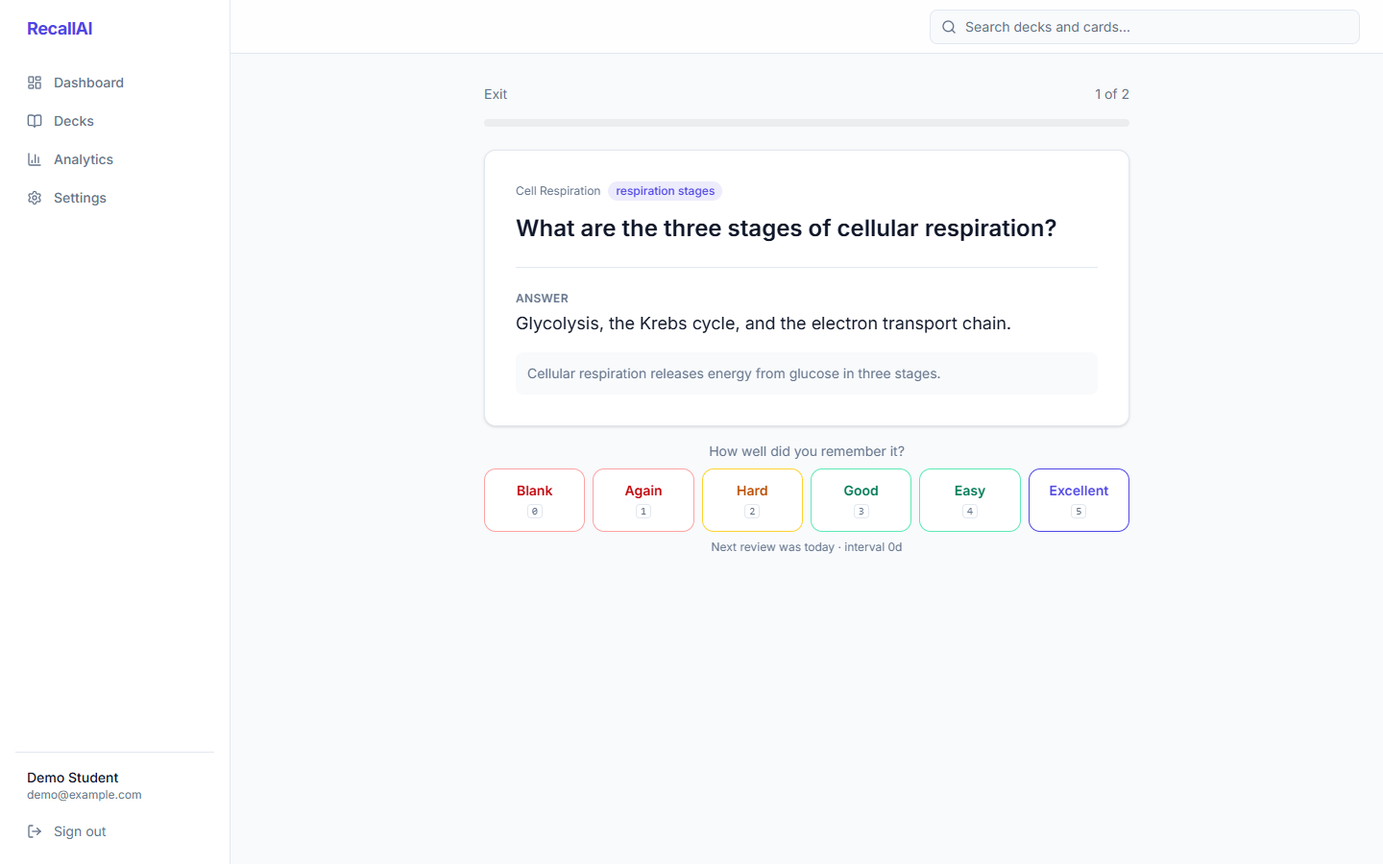
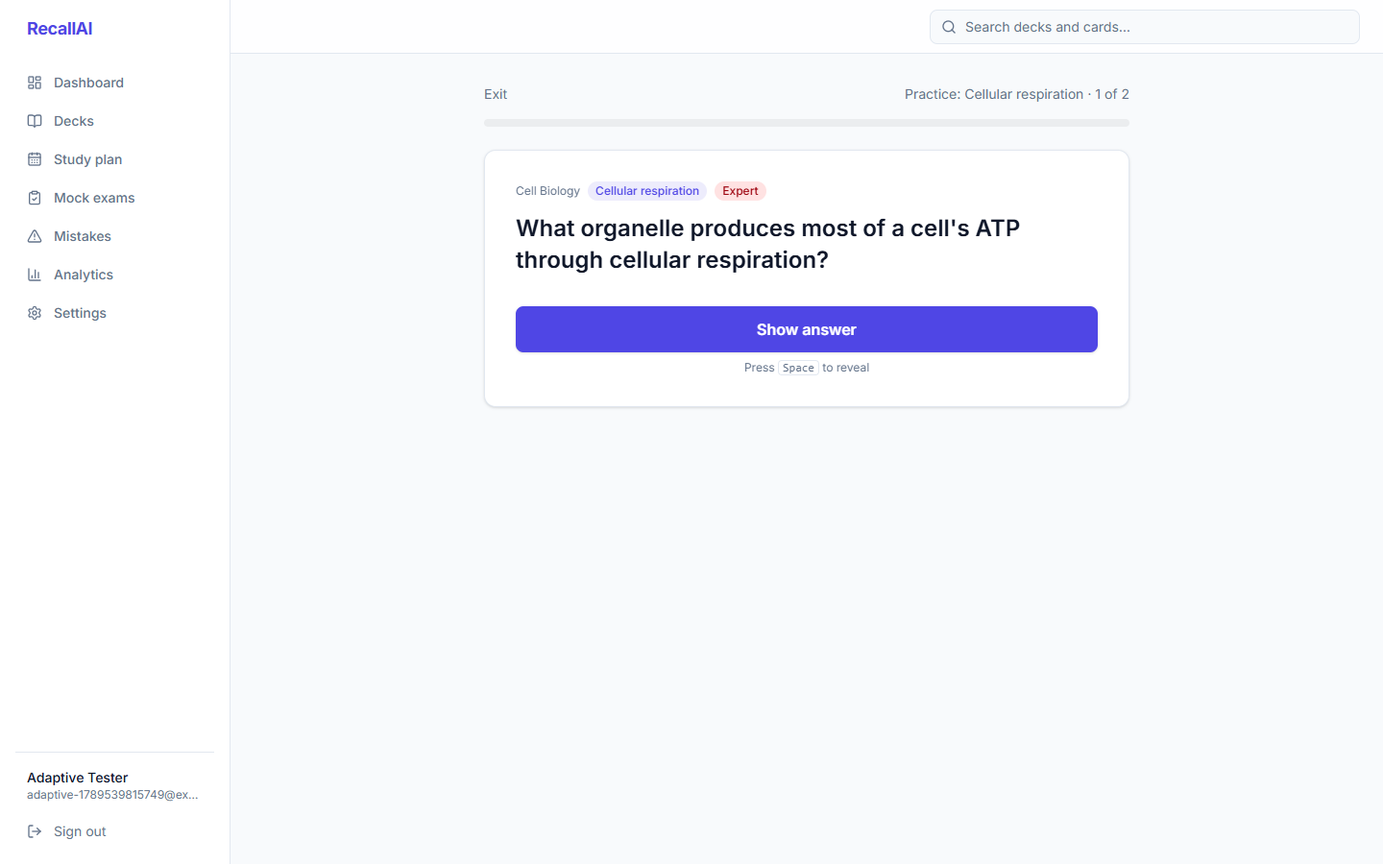
docs(phase 7): end-to-end verification, README and screenshots
- compose stack rebuilt with the upgrade; Flyway applied V4-V8 in place
- scripts/e2e-walkthrough.mjs drives the real UI on Groq through cards,
  adaptive tiers, quiz, mistake review, topic practice, study plan,
  mock exam, results, mistakes, analytics and the dashboard, and
  captures the screenshots
- README: adaptive companion section, schema, routes, endpoints, tests,
  screenshots, roadmap and history updated

diff --git a/README.md b/README.md
@@ -13,19 +13,20 @@
 9. [AI architecture](#ai-architecture) (prompt engineering, structured output, failure handling, caching, chunking, cost, hallucination)
 10. [Quizzes](#quizzes)
 11. [Weak topics and analytics](#weak-topics-and-analytics)
-12. [Frontend](#frontend)
-13. [Security](#security-and-authentication) (rate limiting, logging, production configuration, error format)
-14. [API documentation](#api)
-15. [Local setup](#local-setup-without-docker)
-16. [Docker setup](#docker-setup)
-17. [Environment variables](#environment-variables)
-18. [Testing](#testing)
-19. [Continuous integration](#continuous-integration)
-20. [AWS deployment](#aws-deployment)
-21. [Screenshots](#screenshots)
-22. [Future improvements](#future-improvements)
-23. [Interview talking points](#interview-talking-points)
-24. [Development history](#development-history)
+12. [Adaptive study companion](#adaptive-study-companion) (topic insight, adaptive difficulty, mistakes, study planner, mock exams, readiness)
+13. [Frontend](#frontend)
+14. [Security](#security-and-authentication) (rate limiting, logging, production configuration, error format)
+15. [API documentation](#api)
+16. [Local setup](#local-setup-without-docker)
+17. [Docker setup](#docker-setup)
+18. [Environment variables](#environment-variables)
+19. [Testing](#testing)
+20. [Continuous integration](#continuous-integration)
+21. [AWS deployment](#aws-deployment)
+22. [Screenshots](#screenshots)
+23. [Future improvements](#future-improvements)
+24. [Interview talking points](#interview-talking-points)
+25. [Development history](#development-history)
 
 ## Project overview
 
@@ -66,7 +67,13 @@ RecallAI removes the two frictions. A language model writes the questions from t
 - SM-2 scheduling per card; a daily queue that contains only cards that are actually due, overdue and weakest first.
 - Generate multiple-choice quizzes from a deck or from notes; take them one question at a time; get explanations for misses; retry.
 - Weak-topic detection from review history, with configurable thresholds and no model involved.
-- Dashboard with due, reviewed, streak and mastered tiles; analytics with activity, retention, mastery and topic charts.
+- **Topic insight** across flashcard reviews, quiz answers and mock exams: accuracy, attempts, mistakes, last studied, a category (critical, weak, good, strong) and a recommended action, with one-click practice (targeted flashcard session or generated quiz).
+- **Adaptive difficulty**: every card carries an easy/medium/hard/expert tier driven by lapses, confident streaks and response time; hard and expert cards come back sooner than plain SM-2 would schedule them.
+- **Mistake → flashcard → revision**: wrong quiz and exam answers become mistakes; "Review this mistake" generates an explanatory card (validated, with a deterministic fallback) that SM-2 schedules from today.
+- **AI study planner**: exam date, topics, level and available time become a dated plan of due-card reviews, learning and practice blocks weighted towards weak topics, mistake reviews, weekly mock exams and a final revision day; the model writes the summary and tips; regenerate rebalances after new results.
+- **Mock exams**: timed exams generated from your cards with multiple-choice, true/false and short-answer questions, graded locally, with per-topic results and mistakes captured.
+- **Estimated exam readiness** on the dashboard, computed from accuracy, retention, topic coverage, revision consistency and mock exam scores, with every component and weight shown.
+- Dashboard with readiness, today's plan, weak and strong topics, upcoming reviews, mistakes, difficulty progress, mock exam performance, streak and retention; analytics with activity, retention, mastery and topic charts.
 - Study streaks computed from real calendar days.
 - Full-text search across decks and cards in PostgreSQL.
 - Content-hash caching of AI responses, corrective retries on invalid output, per-user rate limiting on AI endpoints.
@@ -161,9 +168,14 @@ Flyway owns the schema (`backend/src/main/resources/db/migration`). Hibernate ru
 | `quizzes`, `quiz_questions` | AI-generated multiple-choice quizzes |
 | `quiz_attempts` | Scores and duration per attempt |
 | `quiz_attempt_answers` | Selected answer and correctness per question per attempt |
-| `ai_cache` | Validated Claude responses keyed by `(content_hash, operation_type, model, prompt_version)` |
+| `mistakes` | Questions answered wrongly in quizzes or mock exams: given and correct answer, explanation, topic, occurrences, status (open, converted, dismissed) and the card they became |
+| `study_plans`, `study_plan_tasks` | Exam plans (name, date, topics, level, minutes per day, preferred weekdays, model-written summary and advice) and their dated tasks with status |
+| `mock_exams`, `mock_exam_questions` | Timed exams and their mixed-type questions; each question row also holds the answer given and whether it was correct (one attempt per exam) |
+| `ai_cache` | Validated model responses keyed by `(content_hash, operation_type, model, prompt_version)` |
 
-Check constraints enforce SM-2 invariants at the database level (ease factor ≥ 1.30, non-negative interval and repetitions, quality score 0–5, correct answer index 0–3).
+Migrations V4–V8 (the adaptive upgrade) add `quiz_questions.topic`; the card difficulty tier and counters (`difficulty`, `success_streak`, `lapse_count`, `total_reviews`, `avg_response_ms`, backfilled from history) plus `review_history.response_ms` and `difficulty_after`; card `origin` (manual, ai, mistake) and `mistake_id`; and the three table pairs above. Existing databases upgrade in place.
+
+Check constraints enforce SM-2 invariants at the database level (ease factor ≥ 1.30, non-negative interval and repetitions, quality score 0–5, correct answer index 0–3), plus the enumerations and ranges of the new tables.
 
 ## SM-2 spaced repetition
 
@@ -312,22 +324,43 @@ Everything under `/api/analytics` is computed by SQL aggregates over `review_his
 
 **Charts**: `GET /api/analytics/activity?days=30` returns one point per calendar day (gaps filled with zeros) with reviews, successful reviews, average quality and retention percent; `GET /api/analytics/mastery?days=90` returns the cumulative number of cards that had reached the mastered interval by each day, based on the first review that took each card there.
 
+## Adaptive study companion
+
+Five features build on the pieces above. A rule of the design: **numbers, categories and schedules are computed from the student's own results; the model only writes text (cards, questions, summaries) and everything it writes is validated before it is stored.** Every model-backed step also has a path that works when the model is unavailable.
+
+**Topic insight** (`GET /api/analytics/topic-insights`). Flashcard reviews (rated 3 or higher count as successes), quiz answers and mock exam answers are aggregated per topic in SQL (`review_history` joined to `cards`, `quiz_attempt_answers` joined to `quiz_questions`, which now carry a `topic` the quiz prompt asks for). Cards or questions without a topic count under their deck's name. `TopicCategorizer` labels each topic from its combined accuracy: fewer than three attempts is *unrated*; 85%+ is *strong*, 70%+ *good*, 50%+ *weak*, below that *critical*; each category carries a recommended action. `GET /api/reviews/practice?topic=` returns every card on a topic (hardest tier first) for a practice session graded through the normal SM-2 endpoint, and `POST /api/ai/quiz/topic` builds a five-question quiz from the student's own cards on that topic.
+
+**Adaptive difficulty** (`AdaptiveDifficultyService`, pure). Each card has a tier: a lapse (quality below 3) moves it one tier harder, a blank (quality 0) two; three consecutive successes rated 4 or 5 that were not unusually slow move it one tier easier. Response time is the time from seeing the question to revealing the answer, sent by the study page as `responseMs`; a review slower than twice the card's running average does not count towards promotion. The tier then scales the interval SM-2 produced, but only from the third repetition on, so SM-2's 1-day and 6-day seeds and its lapse handling are untouched: easy and medium cards follow plain SM-2 (whose ease factor already lengthens intervals), hard cards get 85% of the interval and expert cards 70%. The review response reports the tier, whether it changed and the unscaled SM-2 interval; `GET /api/analytics/difficulty` gives the distribution.
+
+**Mistake → flashcard → revision** (`/api/mistakes`). Submitting a quiz or exam records every wrong or skipped answer as a mistake (question, the answer given, the correct answer, explanation, topic); missing the same question again bumps its occurrence count. `POST /api/mistakes/{id}/flashcard` asks the model for one corrective card (operation `MISTAKE_CARD`: a recall question about the underlying concept, the precise answer, an explanation that addresses the misconception), validates it like any flashcard, and saves it with origin `MISTAKE`, tagged `mistake`, due today, so it enters the SM-2 queue immediately. If the model is unavailable or returns something invalid after the corrective retry, the card is built deterministically from the stored question, correct answer and explanation, so the flow never fails. Mistakes can be dismissed (they reopen when missed again) or deleted.
+
+**AI study planner** (`/api/study-plans`). A plan takes the exam name and date, topics, a self-assessed level, minutes per study day and preferred weekdays. `StudyPlanAllocator` (pure, deterministic) turns that into dated tasks: every study day starts with a due-card review block and, every other day while mistakes are open, a mistake-review block; the rest goes to one or two topics chosen by a weighted fair share (critical 4, weak 3, unknown 3/2/1.5 by level, good 1.5, strong 1) where a topic's first block is learning and later blocks alternate practice quizzes and learning (topics already good or strong start with practice); the last study day of each week ends with a mock exam and the final day is a revision of the weakest topics. The model (operation `STUDY_PLAN`) is then shown only aggregate numbers and writes a summary and one tip per topic, validated (topics outside the plan are dropped); without a model the plan gets a computed summary. Tasks are checked off, a plan completes when nothing is pending, and **regenerate** rebuilds the pending future tasks from fresh topic insight while keeping completed work, so the plan adapts as results change.
+
+**Mock exams** (`/api/mock-exams`). An exam is generated from the student's cards (one topic, one deck, or the most recent cards) at a chosen difficulty with a mix of multiple-choice, true/false and short-answer questions (operation `MOCK_EXAM`; the validator checks each type's shape). The clock starts on creation; `GET /api/mock-exams/{id}` returns questions without answers and the remaining seconds. Submission is graded locally: option index for choice questions, and `ShortAnswerGrader` for short answers (normalised exact match against the model answer or its accepted alternatives, containment of all key words without being much longer, numeric equality). Late submissions are graded but flagged. Results give score, accuracy, time, per-topic breakdown with strong (70%+) and weak topics, every question with its explanation, and links to the mistakes that were recorded. History and stats feed the dashboard and the readiness estimate.
+
+**Estimated exam readiness** (`GET /api/analytics/readiness`). `ReadinessCalculator` combines five components, each 0–100: accuracy over all reviews and answers (weight 30), 30-day retention (25), topic coverage, the share of topics rated good or strong with unrated topics counting half (20), revision consistency, days studied in the last week minus an overdue-backlog penalty (15), and the average mock exam score (10). A component without evidence drops out and its weight is shared among the rest, so nobody is penalised for a feature they have not used. The response carries every component's score, weight and explanation, a confidence level from the amount of evidence, a recommendation naming the weakest component, and `estimate: true`; the dashboard labels it as an estimate and says it is not a prediction of a grade.
+
+**Rate limiting.** Handlers that may call the model outside `/api/ai` (mistake flashcards, plan creation and regeneration, exam creation) are marked `@AiRateLimited` and count against the same per-user hourly limit.
+
 ## Frontend
 
-A Next.js 16 App Router application in `frontend/`, written as a client-rendered SPA over the REST API (the backend is the only place that talks to Claude or the database).
+A Next.js 16 App Router application in `frontend/`, written as a client-rendered SPA over the REST API (the backend is the only place that talks to the model or the database).
 
 | Route | What it does |
 |---|---|
 | `/login`, `/register` | Auth forms with field-level errors from the API; on success the JWT is stored in a same-site cookie |
-| `/dashboard` | Time-of-day greeting, Due / Reviewed / Streak / Mastered tiles, "Start review" CTA, today's queue, weak topics, 14-day activity chart, recent activity |
+| `/dashboard` | Greeting and "Start review"; Due / Retention / Streak / Mastered tiles; estimated exam readiness with every component; today's plan with check-offs; weak topics with Practice, strong topics, upcoming reviews; today's queue; mistakes to review; adaptive difficulty progress; mock exam performance; 14-day activity chart; recent activity |
 | `/decks` | Searchable, tag-filtered, paginated deck grid with progress bars; create deck modal |
 | `/decks/[id]` | Deck header with counts and progress; Study, Generate cards (paste or drag-and-drop TXT/PDF), Generate quiz, Edit, Delete; tabs for cards (search, add, edit, delete) and quizzes |
-| `/study/[deckId]` (`all` for every deck) | One card at a time: question, reveal, answer and explanation, six SM-2 rating buttons, progress bar, cards remaining, session summary |
-| `/quiz/[quizId]` | One question at a time with four options, then a scored results screen with correct/incorrect markers and explanations for misses, retry |
-| `/analytics` | Recall, retention, mastered and streak tiles; review activity, retention, mastery-over-time and topic-performance charts (Recharts); full topic table with weak flags |
+| `/study/[deckId]` (`all` for every deck; `?topic=` for a practice session) | One card at a time: question, reveal, answer and explanation, six SM-2 rating buttons, difficulty tier, progress bar, cards remaining, session summary; time-to-reveal is sent with each rating and tier changes are announced |
+| `/quiz/[quizId]` | One question at a time with four options, then a scored results screen with correct/incorrect markers, explanations and "Review this mistake" for misses, retry |
+| `/plan`, `/plan/new` | Create a plan (exam, date, topics with suggestions from your results, level, minutes, weekdays); Today, This week, Progress and Completed tabs; check off, skip, regenerate, complete |
+| `/exams`, `/exams/[id]`, `/exams/[id]/results` | New exam form (topic, deck or all cards; difficulty; count; minutes; types) and history; timed exam with countdown, navigator, keyboard shortcuts, auto-submit at zero; results with accuracy, time, strong and weak topics, explanations and mistake review |
+| `/mistakes` | Open, converted and dismissed mistakes with the answer given versus the correct one, occurrences and source; Review this mistake, dismiss, reopen |
+| `/analytics` | Recall, retention, mastered and streak tiles; review activity, retention, mastery-over-time and topic-performance charts (Recharts); every topic with category, accuracy, attempts, mistakes, last studied and action; difficulty tier distribution |
 | `/settings` | Account details, keyboard shortcut reference, how scheduling works, sign out |
 
-**Keyboard shortcuts** in the study session: `Space` or `Enter` reveals the answer, `0`–`5` rate the card (`1` Again, `2` Hard, `3` Good, `4` Easy, `5` Excellent, `0` Blank). In quizzes `1`–`4` pick an option and `Enter` continues.
+**Keyboard shortcuts** in the study session: `Space` or `Enter` reveals the answer, `0`–`5` rate the card (`1` Again, `2` Hard, `3` Good, `4` Easy, `5` Excellent, `0` Blank). In quizzes `1`–`4` pick an option and `Enter` continues. In mock exams `1`–`4` pick an option and the arrow keys move between questions.
 
 **How it is built**
 
@@ -338,7 +371,7 @@ A Next.js 16 App Router application in `frontend/`, written as a client-rendered
 - Tailwind 4 theme tokens with a dark-mode palette; chart colours follow a validated categorical palette with a reserved status colour for weak topics.
 - Responsive from phone widths up: the sidebar collapses to a menu, header actions wrap under the title, rating buttons reflow to two rows.
 
-**Tests**: Vitest with Testing Library covers the API client (auth header, error mapping, 401 handling, network failures, 204s), the format helpers and the rating bar. Run `npm test`.
+**Tests**: Vitest with Testing Library covers the API client (auth header, error mapping, 401 handling, network failures, 204s), the format helpers, the rating bar, the topic and difficulty badges and the exam labels. Run `npm test`.
 
 ## Security and authentication
 
@@ -421,12 +454,15 @@ Interactive documentation is served at `/swagger-ui.html` (OpenAPI JSON at `/v3/
 | PUT | `/api/cards/{id}` | Bearer | Update card content (scheduling fields are read-only here) |
 | DELETE | `/api/cards/{id}` | Bearer | Delete card |
 | GET | `/api/reviews/due` | Bearer | Due queue (`deckId`, `limit`), overdue and weakest first |
-| POST | `/api/reviews/{cardId}` | Bearer | Grade a card 0–5; returns the new SM-2 schedule and cards remaining |
+| GET | `/api/reviews/practice` | Bearer | Every card on a topic for practice (`topic`, `limit`), hardest tier first |
+| GET | `/api/reviews/upcoming` | Bearer | Cards due per day for the next `days` plus the overdue backlog |
+| POST | `/api/reviews/{cardId}` | Bearer | Grade a card 0–5 (optional `responseMs`); returns the SM-2 schedule, cards remaining and the difficulty tier |
 | GET | `/api/reviews/streak` | Bearer | Current streak, longest streak, last active day, reviews today |
 | GET | `/api/reviews/history` | Bearer | Paginated review history |
 | POST | `/api/ai/flashcards` | Bearer | Generate cards from pasted text (`deckId`, `text`, optional `count`) |
 | POST | `/api/ai/flashcards/upload` | Bearer | Generate cards from a `.txt`/`.pdf` upload (multipart `file`, `deckId`, optional `count`) |
 | POST | `/api/ai/quiz` | Bearer | Generate a quiz from a deck's cards or supplied `text` (`deckId`, optional `title`, `count`) |
+| POST | `/api/ai/quiz/topic` | Bearer | Generate a practice quiz from your cards on one topic (`topic`, optional `count`) |
 | GET | `/api/quizzes` | Bearer | List quizzes (`deckId`, paging) with question and attempt counts and best score |
 | GET | `/api/quizzes/{id}` | Bearer | Quiz to take; answers withheld |
 | DELETE | `/api/quizzes/{id}` | Bearer | Delete quiz and attempts |
@@ -438,6 +474,26 @@ Interactive documentation is served at `/swagger-ui.html` (OpenAPI JSON at `/v3/
 | GET | `/api/analytics/mastery` | Bearer | Cumulative cards mastered per day (`days`) |
 | GET | `/api/analytics/topics` | Bearer | Per-topic performance, weakest first (`deckId`) |
 | GET | `/api/analytics/weak-topics` | Bearer | Only topics flagged weak (`deckId`) |
+| GET | `/api/analytics/topic-insights` | Bearer | Combined topic accuracy, attempts, mistakes, category and action (`deckId`, `weakOnly`) |
+| GET | `/api/analytics/difficulty` | Bearer | Cards per adaptive difficulty tier |
+| GET | `/api/analytics/readiness` | Bearer | Estimated exam readiness with components, weights, confidence and a recommendation |
+| GET | `/api/mistakes` | Bearer | Mistakes (`status`, `source`, `topic`, paging) |
+| GET | `/api/mistakes/summary`, `/api/mistakes/recent` | Bearer | Counts by status and most-missed topics; five most recent open mistakes |
+| POST | `/api/mistakes/{id}/flashcard` | Bearer | Turn a mistake into an explanatory flashcard due today (optional `deckId`) |
+| POST | `/api/mistakes/{id}/dismiss`, `/reopen` | Bearer | Set a mistake aside or bring it back |
+| DELETE | `/api/mistakes/{id}` | Bearer | Delete a mistake |
+| POST | `/api/study-plans` | Bearer | Create a plan (`examName`, `examDate`, `topics`, `knowledgeLevel`, `minutesPerDay`, `preferredDays`) |
+| GET | `/api/study-plans`, `/api/study-plans/{id}`, `/api/study-plans/today` | Bearer | Plans with progress; one plan with every task; today's tasks across active plans plus carried-over ones |
+| POST | `/api/study-plans/{id}/regenerate` | Bearer | Rebuild pending tasks from fresh results, keeping completed work |
+| PATCH | `/api/study-plans/{id}/tasks/{taskId}` | Bearer | Mark a task done, skipped or pending |
+| PATCH | `/api/study-plans/{id}` | Bearer | Set a plan active, completed or archived |
+| DELETE | `/api/study-plans/{id}` | Bearer | Delete a plan |
+| POST | `/api/mock-exams` | Bearer | Generate and start an exam (`topic` or `deckId` or neither, `difficulty`, `questionCount`, `durationMinutes`, `questionTypes`) |
+| GET | `/api/mock-exams`, `/api/mock-exams/stats` | Bearer | Exam history; average, best and latest scores |
+| GET | `/api/mock-exams/{id}` | Bearer | The exam to take: questions without answers, remaining seconds |
+| POST | `/api/mock-exams/{id}/submit` | Bearer | Submit answers once; graded locally, mistakes recorded |
+| GET | `/api/mock-exams/{id}/results` | Bearer | Score, time, per-topic breakdown, every question with its explanation |
+| DELETE | `/api/mock-exams/{id}` | Bearer | Delete an exam |
 | GET | `/api/ai/status` | Bearer | Whether generation is available and whether demo mode is on |
 | GET | `/api/search?q=` | Bearer | Top decks and cards matching a query |
 | GET | `/api/tags` | Bearer | All tags the user has used |
@@ -529,12 +585,14 @@ cd frontend && npm run lint && npm test && npm run build
 |---|---|---|
 | SM-2 scheduler | Every quality 0–5, ease bounds, interval ladder, lapses, due dates, determinism | 35 pure unit tests, parameterized |
 | Streaks, weak topics, quiz scoring, tag normalization, chunking, hashing | Business rules in isolation | Unit tests with fixed clocks |
+| Adaptive difficulty, topic categories, study-plan allocation, short-answer grading, readiness | Tier moves and the interval multiplier; category thresholds; budgets, weights, mock and revision days; normalisation and containment; component weights and redistribution | Pure unit tests |
+| Adaptive flows end to end | Topic insight from reviews and quizzes; practice queue and topic quiz; tiers through the API; mistakes recorded, converted with the model and with the fallback; plans created, checked off, regenerated; exams generated, timed, graded and turned into mistakes; readiness and upcoming reviews | MockMvc against PostgreSQL with the scripted fake model client |
 | AI validation and retries | Malformed JSON, prose, missing fields, wrong types, empty arrays, bad option counts, out-of-range answers, truncation, corrective retry, transport retry | Unit tests with `FakeClaudeClient` |
 | Services | Orchestration and transaction boundaries | Mockito |
 | REST API | Every endpoint: success, validation, auth, cross-user isolation, pagination, search, rate limiting, correlation ids | MockMvc against a real PostgreSQL container |
 | Frontend | API client (auth header, error mapping, 401 handling), format helpers, rating bar | Vitest + Testing Library |
 
-227 backend tests run in about two minutes: integration tests share one Spring context and truncate the database before each test.
+239 backend tests (44 classes) run in about three minutes: integration tests share one Spring context and truncate the database before each test.
 
 ## Continuous integration
 
@@ -638,13 +696,21 @@ Then open `https://app.example.com`, register, create a deck, generate cards fro
 
 Captured from the composed stack running on the Groq provider (`AI_PROVIDER=groq`, `openai/gpt-oss-120b`): the cards, the quiz and the explanations shown here were generated from pasted notes at zero cost. `docs/screenshots/README.md` lists the screens and the Playwright command used.
 
-| Dashboard | Deck and card generation |
+| Dashboard with readiness and today's plan | Deck and card generation |
 |---|---|
 | ![Dashboard](docs/screenshots/dashboard.png) | ![Deck](docs/screenshots/deck.png) |
 
-| Study session | Quiz results | Analytics |
+| Study session | Quiz results with mistake review | Analytics |
 |---|---|---|
 | ![Study](docs/screenshots/study.png) | ![Quiz results](docs/screenshots/quiz-results.png) | ![Analytics](docs/screenshots/analytics.png) |
+
+| Study plan | Mock exam | Exam results |
+|---|---|---|
+| ![Study plan](docs/screenshots/plan.png) | ![Mock exam](docs/screenshots/exam.png) | ![Exam results](docs/screenshots/exam-results.png) |
+
+| Practice a weak topic | Mistakes |
+|---|---|
+| ![Practice a topic](docs/screenshots/practice-topic.png) | ![Mistakes](docs/screenshots/mistakes.png) |
 
 ## Future improvements
 
@@ -658,7 +724,10 @@ Captured from the composed stack running on the Groq provider (`AI_PROVIDER=groq
 - **Review reminders** (email or push) when cards come due.
 - **Shared and public decks** with copy-to-my-decks.
 - **Observability**: OpenTelemetry traces and Micrometer metrics for AI latency, token spend and cache hit rate.
-- **End-to-end tests** with Playwright against the composed stack.
+- **End-to-end tests** with Playwright against the composed stack (the walkthrough script used for the screenshots is a starting point).
+- **Readiness calibration**: compare the estimate with real exam outcomes and tune the weights; per-exam readiness scoped to a plan's topics.
+- **Study plan notifications** and calendar export; plan tasks that deep-link into a pre-built session.
+- **Exam question types**: fill-in-the-blank and matching; partial credit for multi-part short answers.
 
 ## Interview talking points
 
@@ -723,3 +792,11 @@ Captured from the composed stack running on the Groq provider (`AI_PROVIDER=groq
 10. ✅ Frontend: auth, dashboard, decks, generation, study session, quizzes, analytics, settings
 11. ✅ Production hardening: per-user AI rate limiting, request correlation and access logging, security review, graceful shutdown, compression, production toggles
 12. ✅ AWS deployment: ECS Fargate task definitions, ECR push script, RDS and ALB guide, CI workflow
+13. ✅ Providers: demo mode, Google Gemini and Groq behind the same client interface; Groq as the zero-cost working provider
+14. ✅ Adaptive upgrade, phase 1: topic insight across reviews and quizzes, categories, practice sessions and topic quizzes
+15. ✅ Phase 2: adaptive difficulty tiers on top of SM-2 with response-time awareness
+16. ✅ Phase 3: mistakes captured from quizzes and exams, turned into scheduled flashcards with a fallback
+17. ✅ Phase 4: AI study planner with deterministic allocation, model-written advice and regeneration
+18. ✅ Phase 5: timed mock exams with mixed question types and local grading
+19. ✅ Phase 6: estimated exam readiness and the dashboard rebuild
+20. ✅ Phase 7: end-to-end verification against the composed stack on Groq

diff --git a/docs/screenshots/README.md b/docs/screenshots/README.md
@@ -1,6 +1,6 @@
 # Screenshots
 
-Current set: captured 15 Sept 2026 from the compose stack with `AI_PROVIDER=groq` (model `openai/gpt-oss-120b`), light theme, 1440x900.
+Current set: captured 16 Sept 2026 from the compose stack with `AI_PROVIDER=groq` (model `openai/gpt-oss-120b`), light theme, 1440x900, by the walkthrough script that also exercises every adaptive feature end to end.
 
 Capture these after `docker compose up --build` (or the local setup) with an account that has a
 few decks and reviews, at 1440x900, and save them here with the exact names below so the main
@@ -8,11 +8,16 @@ README picks them up.
 
 | File | Screen |
 |---|---|
-| `dashboard.png` | `/dashboard` with due cards, streak and weak topics |
+| `dashboard.png` | `/dashboard` with the readiness estimate, today's plan, weak topics and upcoming reviews |
 | `deck.png` | `/decks/{id}` showing the card list and the Generate cards dialog |
-| `study.png` | `/study/{deckId}` with the answer revealed and the six rating buttons |
-| `quiz-results.png` | `/quiz/{quizId}` results screen with an explanation for a missed question |
-| `analytics.png` | `/analytics` charts |
+| `study.png` | `/study/all?topic=...` practice session with the difficulty tier badge |
+| `quiz-results.png` | `/quiz/{quizId}` results with "Review this mistake" on a missed question |
+| `analytics.png` | `/analytics` charts, topic table and difficulty distribution |
+| `plan.png` | `/plan` with the coach's summary and today's tasks |
+| `exam.png` | `/exams/{id}` timed exam with the navigator |
+| `exam-results.png` | `/exams/{id}/results` with the per-topic breakdown |
+| `practice-topic.png` | the Practice chooser opened from a weak topic |
+| `mistakes.png` | `/mistakes` list |
 
 One-liner per screen with Playwright (no install beyond npx):
 
